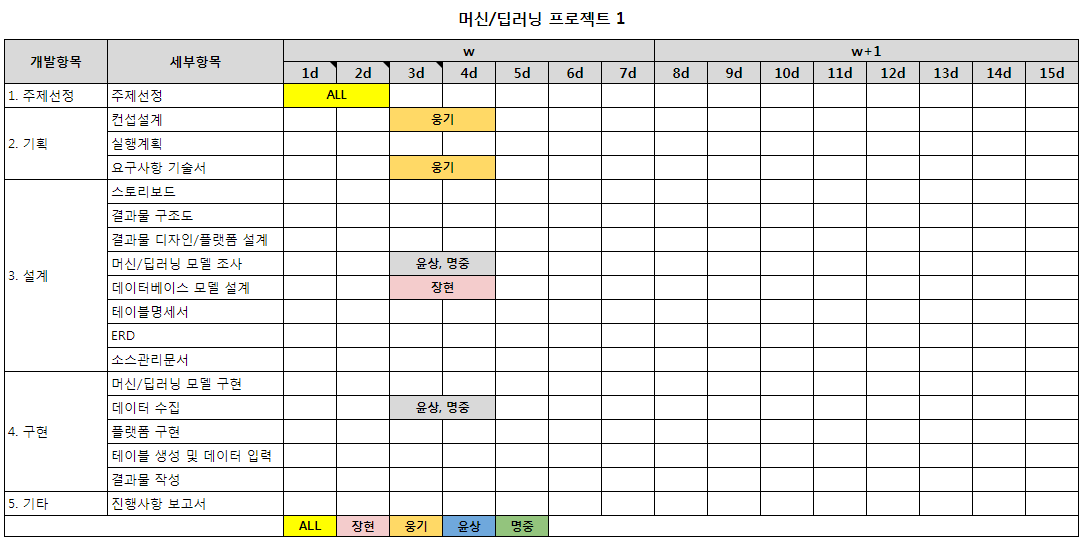
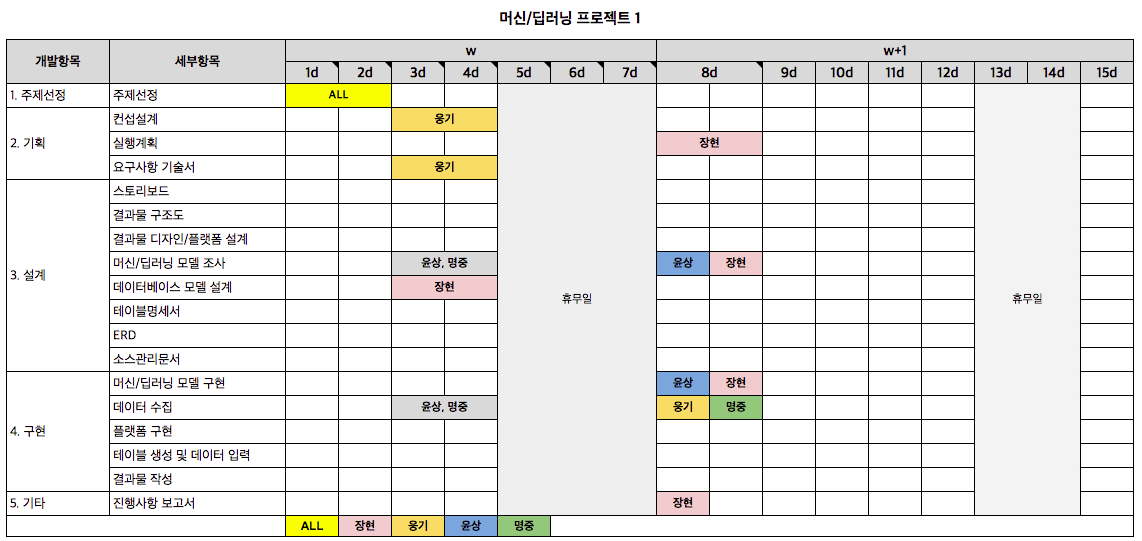
수정내용 올림
object파일 첫 업로드, wbs수정

diff --git a/JH/object_detection.py b/JH/object_detection.py
@@ -1,0 +1,205 @@
+#!/usr/bin/env python3
+# -*- coding: utf-8 -*-
+"""
+Created on Sun Apr  8 02:55:03 2018
+
+@author: janghyeonan
+"""
+
+import sys
+sys.path.append('/Users/janghyeonan/models/research') #path 경로 꼭 확인
+sys.path.append('/Users/janghyeonan/models/research/object_detection/utils')
+
+
+
+import numpy as np
+import os
+import six.moves.urllib as urllib
+import tarfile
+import tensorflow as tf
+from matplotlib import pyplot as plt
+from PIL import Image
+from object_detection.utils import ops as utils_ops
+
+if tf.__version__ < '1.4.0':
+  raise ImportError('Please upgrade your tensorflow installation to v1.4.* or later!')
+  
+from object_detection.utils import label_map_util #utils이름을 object_detection.utils 로 해결
+from object_detection.utils import visualization_utils as vis_util
+
+# What model to download.
+MODEL_NAME = 'ssd_mobilenet_v1_coco_2017_11_17'
+MODEL_FILE = MODEL_NAME + '.tar.gz'
+DOWNLOAD_BASE = 'http://download.tensorflow.org/models/object_detection/'
+
+#MODEL_NAME = 'faster_rcnn_nas_lowproposals_coco_2017_11_08' #SOTA result is roughly .43 s for forward pass
+#MODEL_FILE = MODEL_NAME + '.tar.gz'
+#DOWNLOAD_BASE = 'http://download.tensorflow.org/models/object_detection/'
+
+
+# Path to frozen detection graph. This is the actual model that is used for the object detection.
+PATH_TO_CKPT = MODEL_NAME + '/frozen_inference_graph.pb'
+
+
+# List of the strings that is used to add correct label for each box.
+#PATH_TO_LABELS = os.path.join('data', 'mscoco_label_map.pbtxt') #이거아님
+
+PATH_TO_LABELS = '/Users/janghyeonan/models/research/object_detection/data/mscoco_label_map.pbtxt' #이걸로 해결
+
+NUM_CLASSES = 90
+
+
+opener = urllib.request.URLopener()
+opener.retrieve(DOWNLOAD_BASE + MODEL_FILE, MODEL_FILE)
+tar_file = tarfile.open(MODEL_FILE)
+for file in tar_file.getmembers():
+  file_name = os.path.basename(file.name)
+  if 'frozen_inference_graph.pb' in file_name:
+    tar_file.extract(file, os.getcwd())  
+
+detection_graph = tf.Graph()
+with detection_graph.as_default():
+  od_graph_def = tf.GraphDef()
+  with tf.gfile.GFile(PATH_TO_CKPT, 'rb') as fid:
+    serialized_graph = fid.read()
+    od_graph_def.ParseFromString(serialized_graph)
+    tf.import_graph_def(od_graph_def, name='')
+
+label_map = label_map_util.load_labelmap(PATH_TO_LABELS)
+
+categories = label_map_util.convert_label_map_to_categories(label_map, max_num_classes=NUM_CLASSES, use_display_name=True)
+category_index = label_map_util.create_category_index(categories)
+
+
+def load_image_into_numpy_array(image):
+  (im_width, im_height) = image.size
+  return np.array(image.getdata()).reshape(
+      (im_height, im_width, 3)).astype(np.uint8)
+
+# For the sake of simplicity we will use only 2 images:
+# image1.jpg
+# image2.jpg
+# If you want to test the code with your images, just add path to the images to the TEST_IMAGE_PATHS.
+PATH_TO_TEST_IMAGES_DIR = 'test_images'
+#TEST_IMAGE_PATHS = [ os.path.join(PATH_TO_TEST_IMAGES_DIR, 'image{}.jpg'.format(i)) for i in range(1, 3) ]
+TEST_IMAGE_PATHS = ['/Users/janghyeonan/models/research/object_detection/test_images/image1.jpg', '/Users/janghyeonan/models/research/object_detection/test_images/image2.jpg', '/Users/janghyeonan/PythonStudy/war.jpg'] ##이렇게 변경
+
+
+
+# Size, in inches, of the output images.
+IMAGE_SIZE = (12, 8)
+
+def run_inference_for_single_image(image, graph):
+  with graph.as_default():
+    with tf.Session() as sess:
+      # Get handles to input and output tensors
+      ops = tf.get_default_graph().get_operations()
+      all_tensor_names = {output.name for op in ops for output in op.outputs}
+      tensor_dict = {}
+      for key in [
+          'num_detections', 'detection_boxes', 'detection_scores',
+          'detection_classes', 'detection_masks'
+      ]:
+        tensor_name = key + ':0'
+        if tensor_name in all_tensor_names:
+          tensor_dict[key] = tf.get_default_graph().get_tensor_by_name(
+              tensor_name)
+      if 'detection_masks' in tensor_dict:
+        # The following processing is only for single image
+        detection_boxes = tf.squeeze(tensor_dict['detection_boxes'], [0])
+        detection_masks = tf.squeeze(tensor_dict['detection_masks'], [0])
+        # Reframe is required to translate mask from box coordinates to image coordinates and fit the image size.
+        real_num_detection = tf.cast(tensor_dict['num_detections'][0], tf.int32)
+        detection_boxes = tf.slice(detection_boxes, [0, 0], [real_num_detection, -1])
+        detection_masks = tf.slice(detection_masks, [0, 0, 0], [real_num_detection, -1, -1])
+        detection_masks_reframed = utils_ops.reframe_box_masks_to_image_masks(
+            detection_masks, detection_boxes, image.shape[0], image.shape[1])
+        detection_masks_reframed = tf.cast(
+            tf.greater(detection_masks_reframed, 0.5), tf.uint8)
+        # Follow the convention by adding back the batch dimension
+        tensor_dict['detection_masks'] = tf.expand_dims(
+            detection_masks_reframed, 0)
+      image_tensor = tf.get_default_graph().get_tensor_by_name('image_tensor:0')
+
+      # Run inference
+      output_dict = sess.run(tensor_dict,
+                             feed_dict={image_tensor: np.expand_dims(image, 0)})
+
+      # all outputs are float32 numpy arrays, so convert types as appropriate
+      output_dict['num_detections'] = int(output_dict['num_detections'][0])
+      output_dict['detection_classes'] = output_dict[
+          'detection_classes'][0].astype(np.uint8)
+      output_dict['detection_boxes'] = output_dict['detection_boxes'][0]
+      output_dict['detection_scores'] = output_dict['detection_scores'][0]
+      if 'detection_masks' in output_dict:
+        output_dict['detection_masks'] = output_dict['detection_masks'][0]
+  return output_dict
+
+
+for image_path in TEST_IMAGE_PATHS:
+  image = Image.open(image_path)
+  # the array based representation of the image will be used later in order to prepare the
+  # result image with boxes and labels on it.
+  image_np = load_image_into_numpy_array(image)
+  # Expand dimensions since the model expects images to have shape: [1, None, None, 3]
+  image_np_expanded = np.expand_dims(image_np, axis=0)
+  # Actual detection.
+  output_dict = run_inference_for_single_image(image_np, detection_graph)
+  # Visualization of the results of a detection.
+  vis_util.visualize_boxes_and_labels_on_image_array(
+      image_np,
+      output_dict['detection_boxes'],
+      output_dict['detection_classes'],
+      output_dict['detection_scores'],
+      category_index,
+      instance_masks=output_dict.get('detection_masks'),
+      use_normalized_coordinates=True,
+      line_thickness=8)
+  plt.figure(figsize=IMAGE_SIZE)
+  plt.imshow(image_np)
+
+
+image = Image.open('/Users/janghyeonan/PythonStudy/war.jpg')    
+plt.figure(figsize=IMAGE_SIZE)
+plt.imshow(image)
+
+with detection_graph.as_default():
+  with tf.Session(graph=detection_graph) as sess:
+    # Definite input and output Tensors for detection_graph
+    image_tensor = detection_graph.get_tensor_by_name('image_tensor:0')
+    # Each box represents a part of the image where a particular object was detected.
+    detection_boxes = detection_graph.get_tensor_by_name('detection_boxes:0')
+    # Each score represent how level of confidence for each of the objects.
+    # Score is shown on the result image, together with the class label.
+    detection_scores = detection_graph.get_tensor_by_name('detection_scores:0')
+    detection_classes = detection_graph.get_tensor_by_name('detection_classes:0')
+    num_detections = detection_graph.get_tensor_by_name('num_detections:0')
+    # the array based representation of the image will be used later in order to prepare the
+    # result image with boxes and labels on it.
+    image_np = load_image_into_numpy_array(image)
+    # Expand dimensions since the model expects images to have shape: [1, None, None, 3]
+    image_np_expanded = np.expand_dims(image_np, axis=0)
+    # Actual detection.
+    (boxes, scores, classes, num) = sess.run(
+      [detection_boxes, detection_scores, detection_classes, num_detections],
+      feed_dict={image_tensor: image_np_expanded})
+    # Visualization of the results of a detection.
+    vis_util.visualize_boxes_and_labels_on_image_array(
+      image_np,
+      np.squeeze(boxes),
+      np.squeeze(classes).astype(np.int32),
+      np.squeeze(scores),
+      category_index,
+      use_normalized_coordinates=True,
+      line_thickness=8)
+    plt.figure(figsize=IMAGE_SIZE)
+    plt.imshow(image_np)
+
+
+PATH_TO_LABELS
+#image_path
+TEST_IMAGE_PATHS
+#/Users/janghyeonan/PythonStudy/poster
+#/Users/janghyeonan/PythonStudy/war.jpg
+PATH_TO_LABELS = ['/Users/janghyeonan/models/research/object_detection/test_images/image1.jpg',
+ '/Users/janghyeonan/models/research/object_detection/test_images/image2.jpg', '/Users/janghyeonan/PythonStudy/war.jpg']

diff --git a/JH/naver_movie_poster.py b/JH/naver_movie_poster.py
@@ -44,3 +44,4 @@ for i in mdict.keys(): #딕셔너리에서 글번호만 뽑아 돌림
     print(str(long2)+'개 남음')
 driver.close() #드라이버 닫기
 mdict #결과물확인
+
